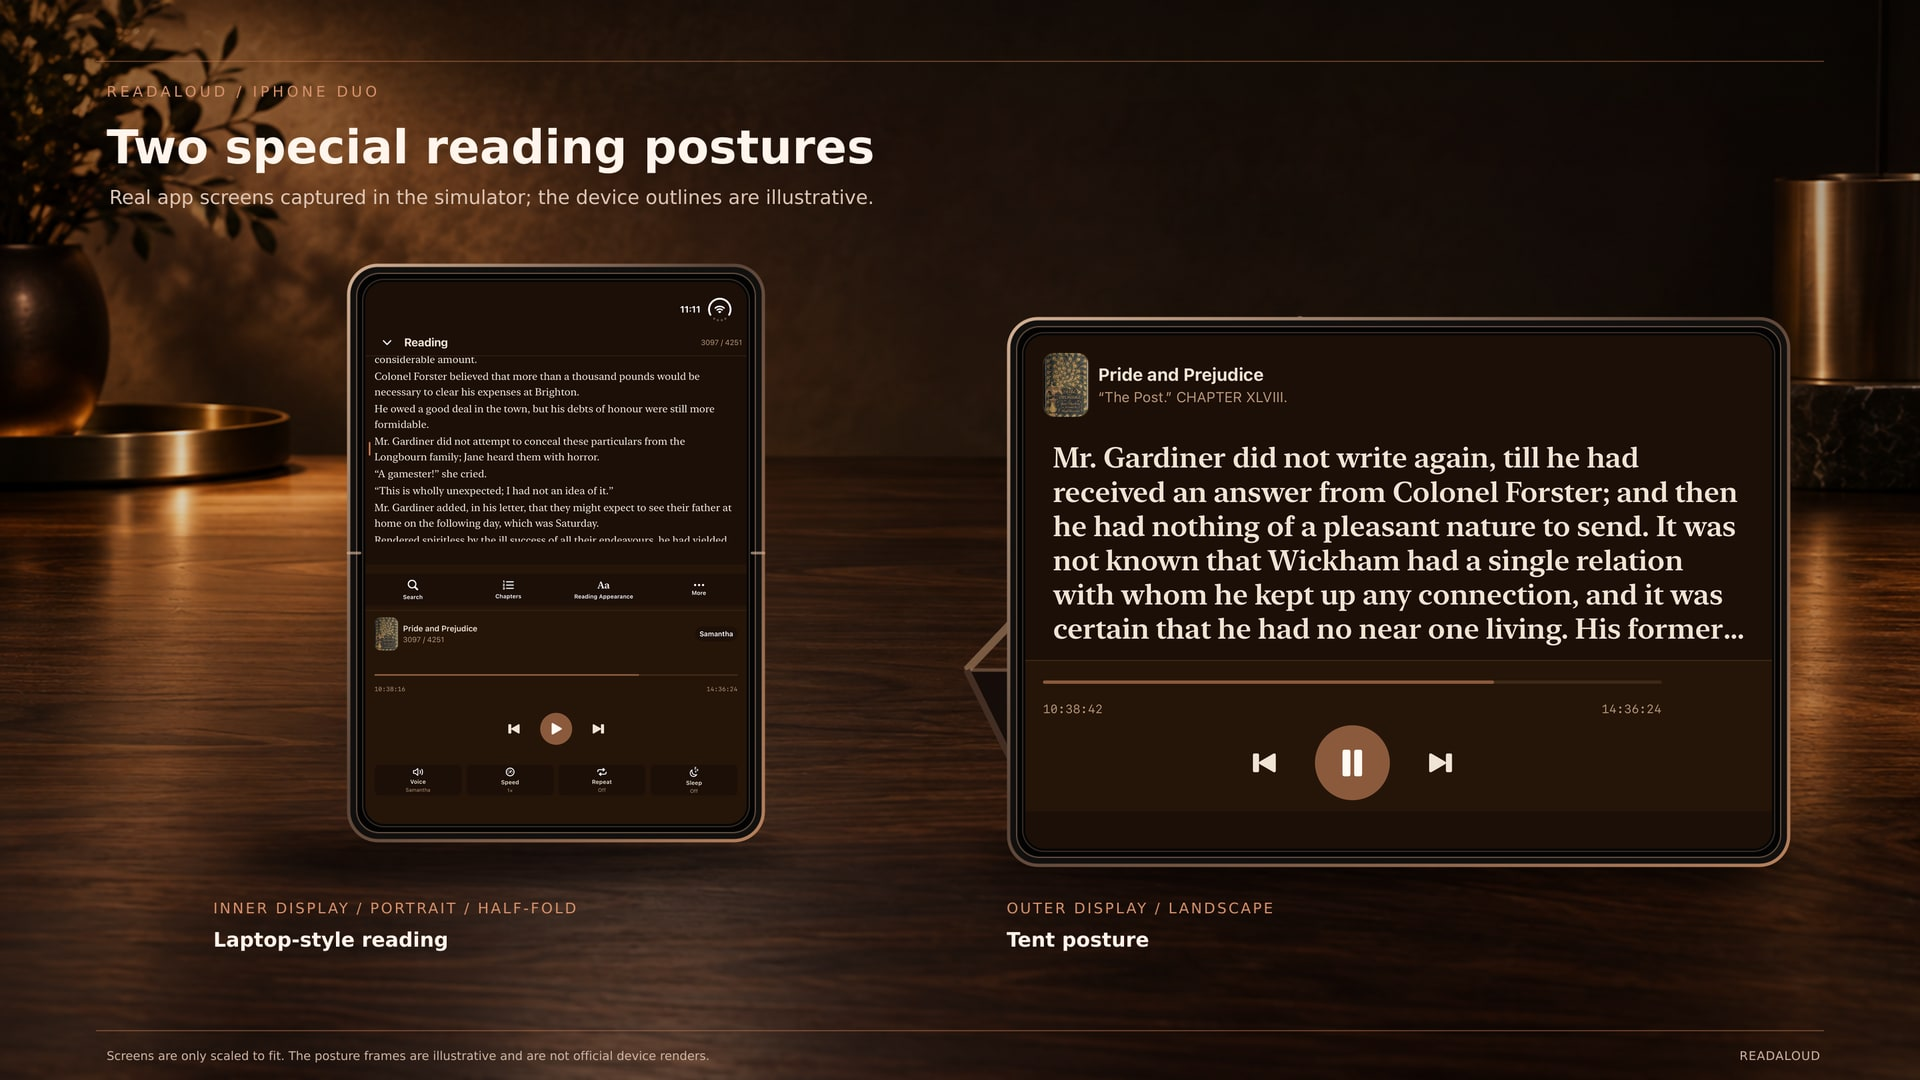
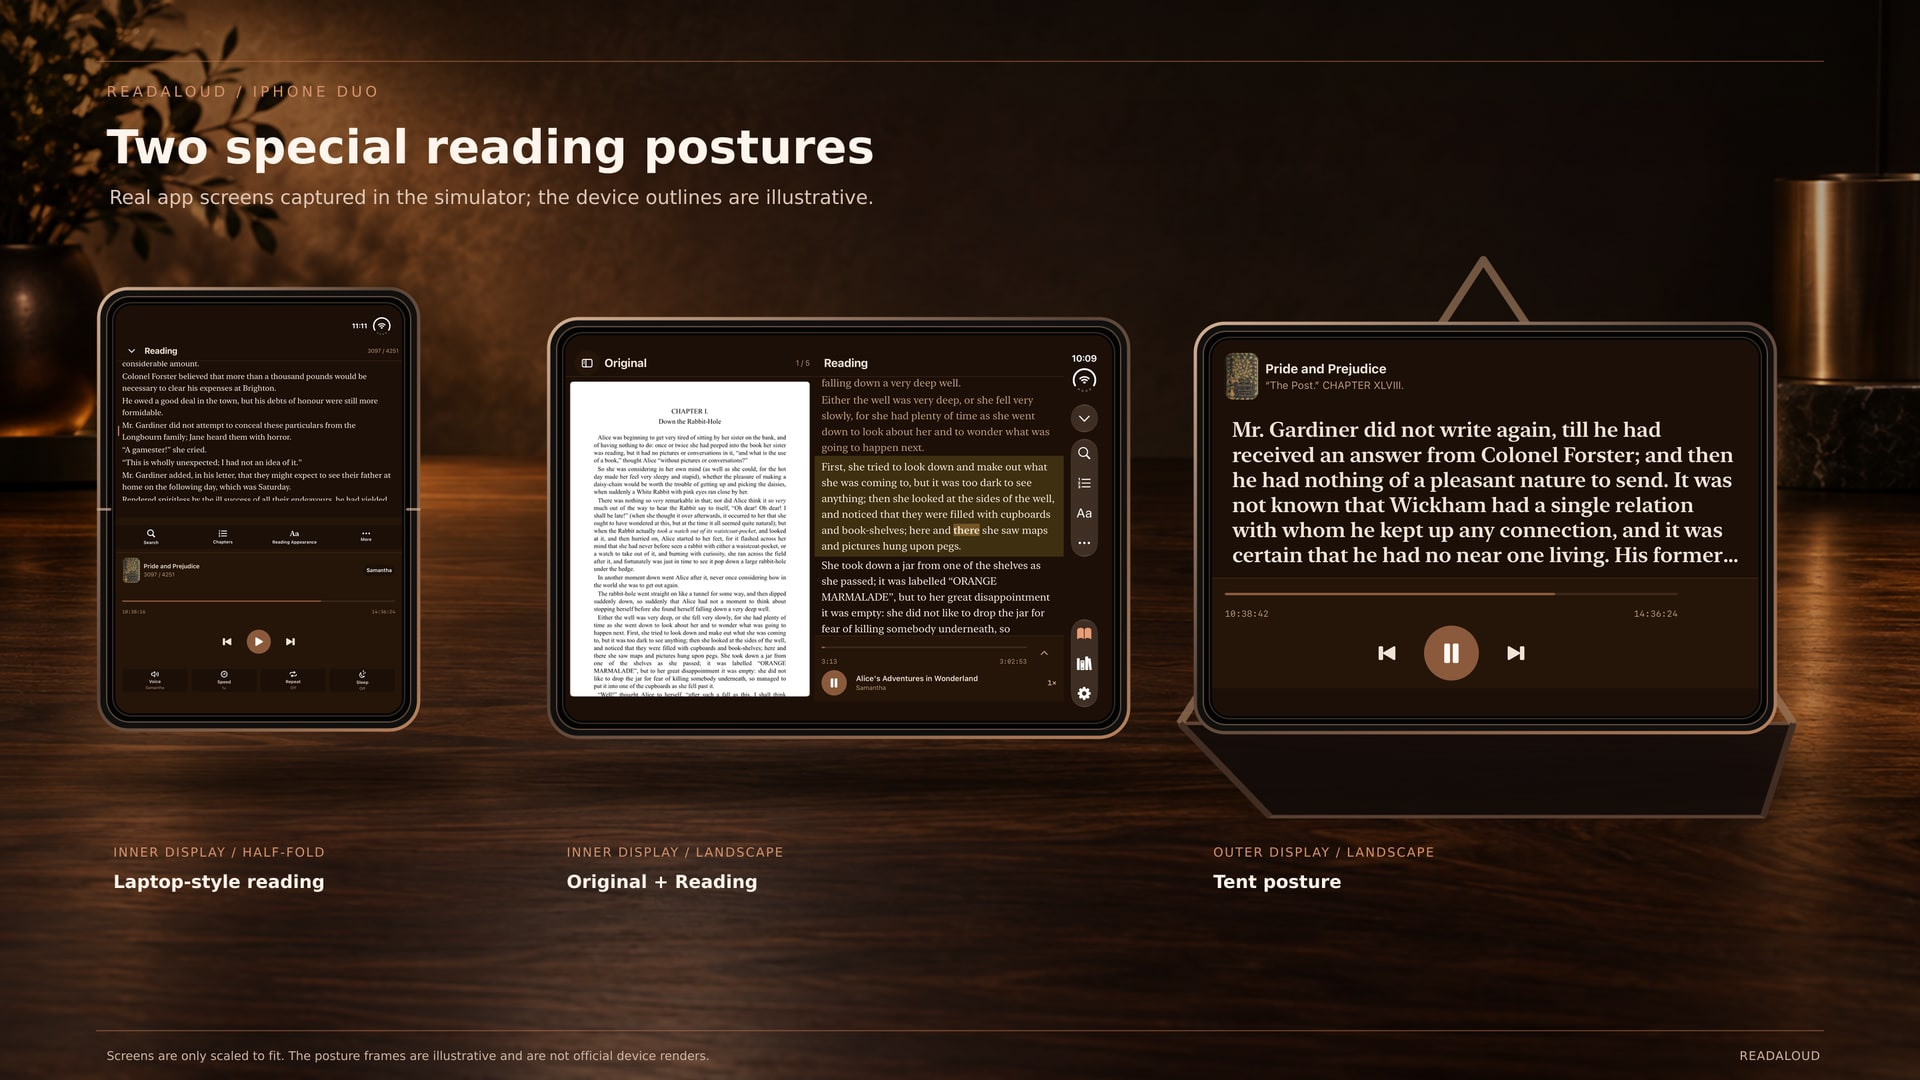
Include inner landscape in posture overview

Changed region(s): [[0.0312, 0.2444, 0.9688, 0.8861]]

diff --git a/README.md b/README.md
@@ -12,6 +12,6 @@ The device outlines and background are illustrative. The app screens come from t
 
 ## Additional postures
 
-![ReadAloud on iPhone Duo: laptop-style half-fold and Tent posture](assets/readaloud-iphone-duo-postures.jpg)
+![ReadAloud on iPhone Duo: laptop-style half-fold, inner landscape, and Tent posture](assets/readaloud-iphone-duo-postures.jpg)
 
-The additional captures show inner-display portrait reading in a laptop-style half-fold posture and outer-display landscape reading in Tent posture. The posture frames are illustrative, not official hardware renders.
+The additional captures show inner-display portrait reading in a laptop-style half-fold posture, inner-display landscape with Original and Reading side by side, and outer-display landscape reading in Tent posture. The posture frames are illustrative, not official hardware renders.
